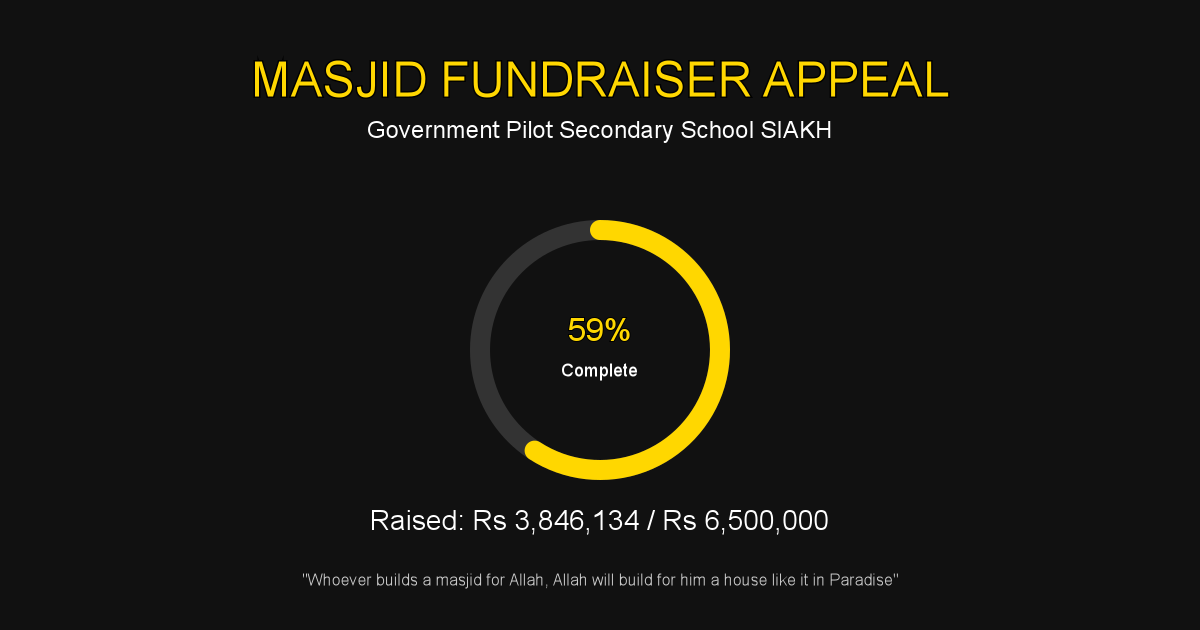
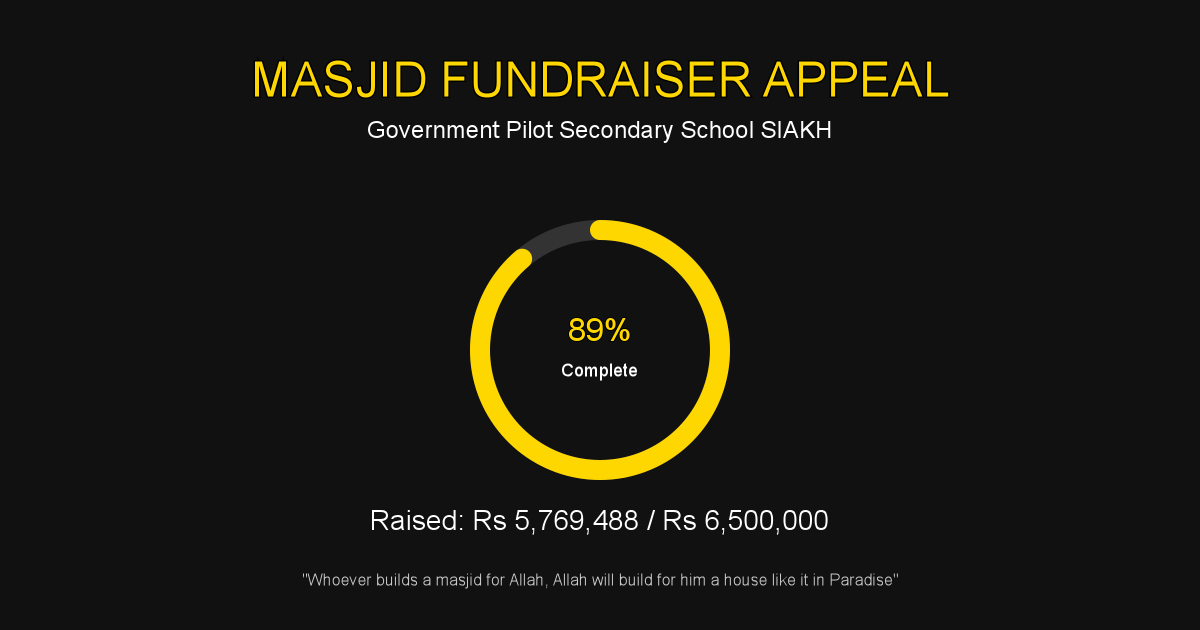
contributions added

Changed region(s): [[0.37, 0.3921, 0.4625, 0.7238], [0.4317, 0.8143, 0.555, 0.8444], [0.4625, 0.5127, 0.4933, 0.5429]]

diff --git a/script.js b/script.js
@@ -109,7 +109,7 @@ function scrollToPaymentDetails() {
 
 
 // Load and render contributions with accordion
-fetch('contributions.json?v=51')
+fetch('contributions.json?v=52')
   .then(res => res.json())
   .then(data => {
     const accordionContainer = document.getElementById('contributions-accordion');
@@ -255,7 +255,7 @@ fetch('contributions.json?v=51')
 // Update progress bar and target
 document.getElementById('donation-target').textContent = formatPKR(target);
 document.getElementById('target-progress').textContent = formatPKR(target);
-fetch('contributions.json?v=51')
+fetch('contributions.json?v=52')
   .then(res => res.json())
   .then(contribs => {
     let raised = contribs.reduce((sum, c) => sum + c.amount, 0);
@@ -264,7 +264,7 @@ fetch('contributions.json?v=51')
   });
 
 // Load and render work phases
-fetch('work-phases.json?v=51')
+fetch('work-phases.json?v=52')
   .then(res => res.json())
   .then(data => {
     const phasesProgressBar = document.getElementById('phases-progress-bar');
@@ -275,7 +275,7 @@ fetch('work-phases.json?v=51')
     const sortedPhases = data.phases.sort((a, b) => a.order - b.order);
     
           // Load contributions to calculate in-progress phase spending
-      fetch('contributions.json?v=51').then(res => res.json()).then(contributions => {
+      fetch('contributions.json?v=52').then(res => res.json()).then(contributions => {
       // Calculate total contributions
       const totalContributions = contributions.reduce((sum, c) => sum + c.amount, 0);
       
@@ -601,7 +601,7 @@ function openPhaseModal(phaseOrder) {
   const description = document.getElementById('phaseModalDescription');
   
   // Get phase data
-  fetch('work-phases.json?v=51')
+  fetch('work-phases.json?v=52')
     .then(res => res.json())
     .then(data => {
       const phase = data.phases.find(p => p.order === phaseOrder);

diff --git a/index.html b/index.html
@@ -277,6 +277,6 @@
     </div>
   </div>
   
-  <script src="script.js?v=85"></script>
+  <script src="script.js?v=86"></script>
 </body>
 </html> 
